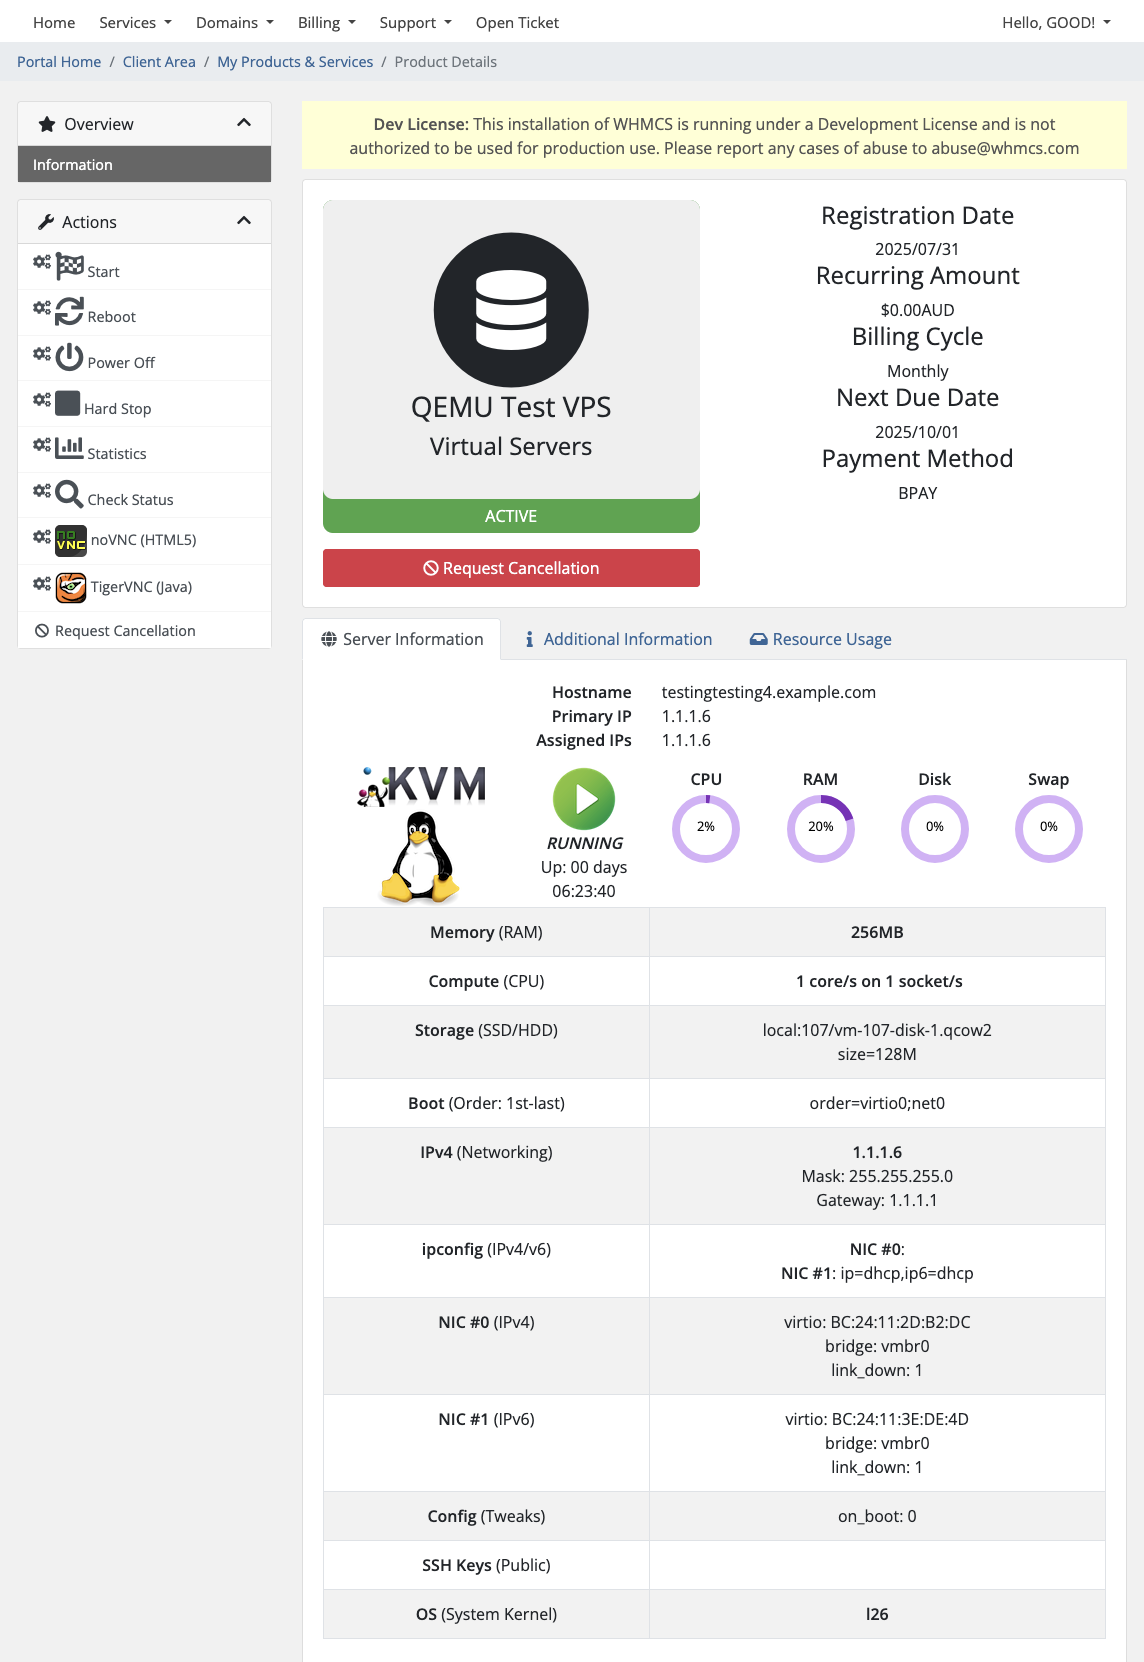
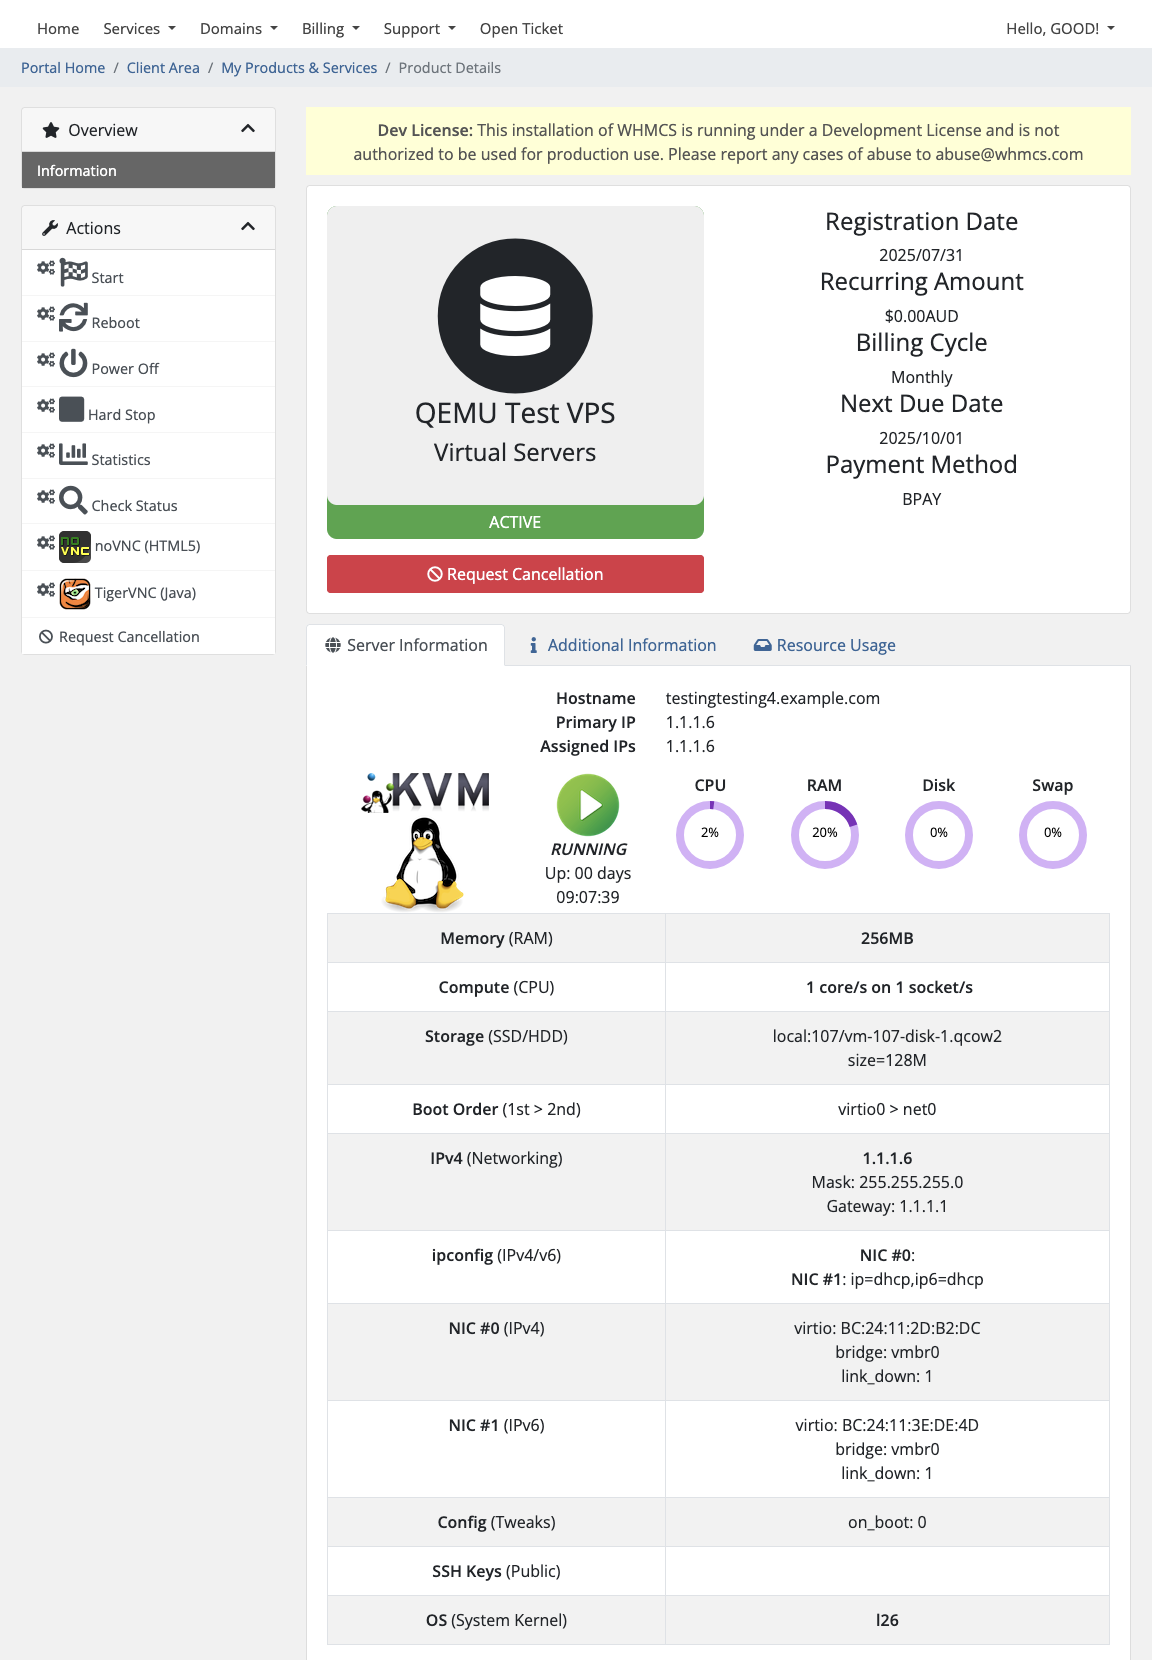
v1.2.18 v2: fix #114 as well

diff --git a/modules/servers/pvewhmcs/novnc_router.php b/modules/servers/pvewhmcs/novnc_router.php
@@ -71,7 +71,7 @@ setrawcookie('PVEAuthCookie', $pveticket, [
 // Build final noVNC URL
 // ---------------------------------------
 $hostname      = gethostbyaddr($host);
-$redirect_url  = '/modules/servers/pvewhmcs/novnc/vnc.html?autoconnect=true&encrypt=true'
+$redirect_url  = './novnc/vnc.html?autoconnect=true&encrypt=true'
                . '&host=' . $hostname
                . '&port=8006'
                . '&password=' . urlencode($vncticket)

diff --git a/README.md b/README.md
@@ -8,7 +8,7 @@
     If you have proven and public git-logged experience, or similar, please say g'day.
     
     Please note: We are only looking for high-quality applicants with spare time.
-    As it stands, we won't have much spare dev time for this Module in 2025.
+    As it stands, we won't have much spare dev time for this Module in 2025/NY.
 
 - Configure VM/CT plans with custom CPU/RAM/VLAN/On-boot/Bandwidth/etc
 - Automatically Provision VMs & CTs in **Proxmox VE** from **WHMCS** easily
@@ -138,8 +138,6 @@ After forking the module, we considered how to improve security of Console Tunne
 > Do NOT set less restrictive permissions. The above is designed for interim security.
 > 
 > **However, if you wish for proper security: wait for VNC to be further improved.**
-> 
-> **Note**: Custom WHMCS install folders like /clients/ are not yet VNC-supported. #114
 
 <img alt="Client Area GUI showing the reply which links off to the VNC Console/Client" src="_images/zConsoleReady.png">
 
@@ -167,6 +165,8 @@ Once you have it configured, clicking noVNC in Client Area provides direct link 
 > 
 > Load noVNC with `logging=debug` added to the query string, ie. `vnc.html?logging=debug`<br>
 > _Or in Settings change Logging to debug-level, then open JS Console before reloading noVNC._
+> 
+> Typically, 401 No Ticket from PVE (1006 Connection Closed via noVNC) is due to cross-domain attempts being made, ie. WHMCS on domain1.com and PVE on domain2.com. You must use subdomains on the same Domain, with PTR, etc - else it won't work.
 
 ## 🌐 3. Networking: IPv4 Pools, IPv6, vmbr/SDN
 

diff --git a/CHANGELOG.md b/CHANGELOG.md
@@ -5,7 +5,7 @@ All notable changes to Proxmox VE for WHMCS will be documented in this file.
 
 https://github.com/The-Network-Crew/Proxmox-VE-for-WHMCS/milestones
 
-## [1.2.18] - 2025-10-19 - _"Client Area detail"_
+## [1.2.18] - 2025-10-19 - _"Client Area detail" v2_
 
 ### 💅 Polish
 - Client Area: Polish the interface numbering, v4/v6
@@ -13,6 +13,7 @@ https://github.com/The-Network-Crew/Proxmox-VE-for-WHMCS/milestones
 
 ### 🐛 Bug Fix
 - noVNC: Cookie remove 2; router tidy-up; tested OK (#167)
+- noVNC: Allow for custom WHMCS install subdirectory (#114)
 
 ## [1.2.17] - 2025-10-19 - _"VNC & Hyperscale!"_
 
